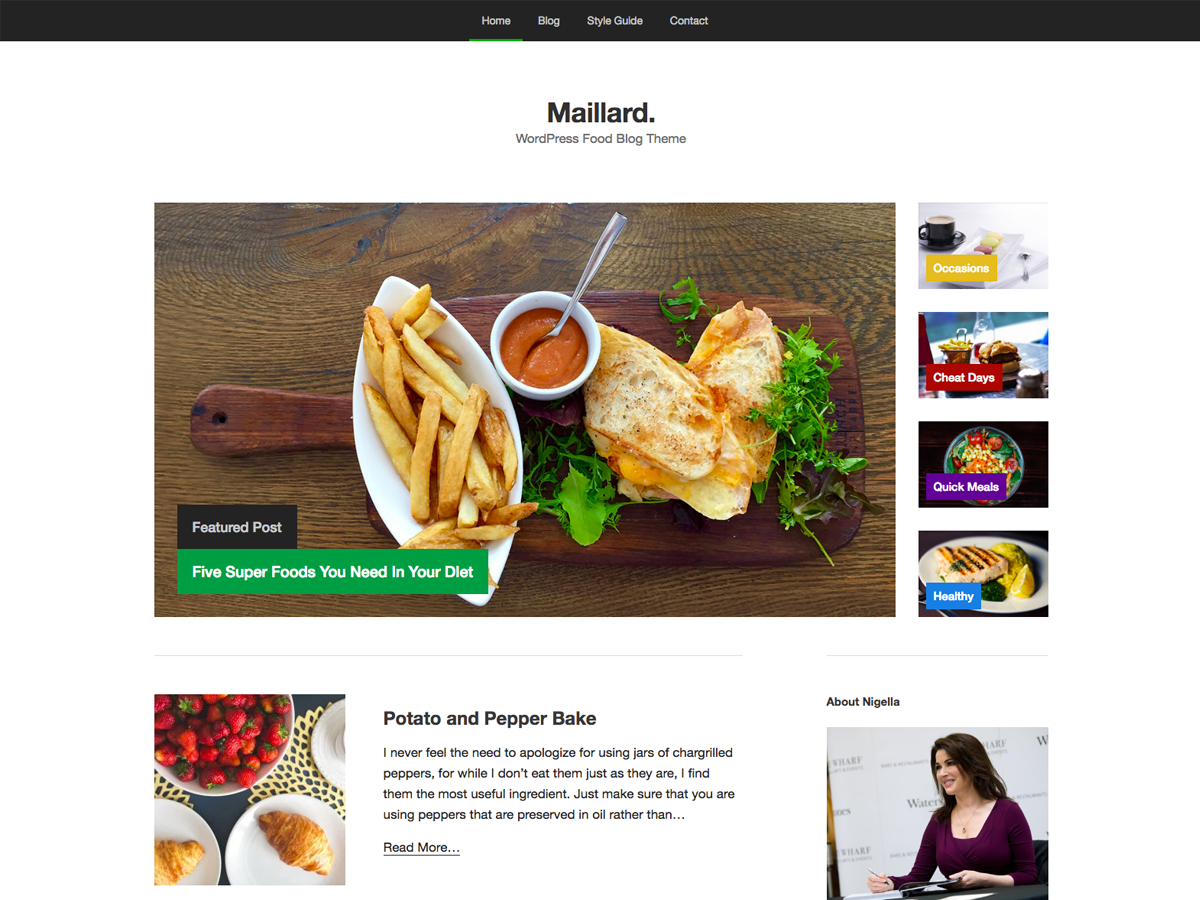
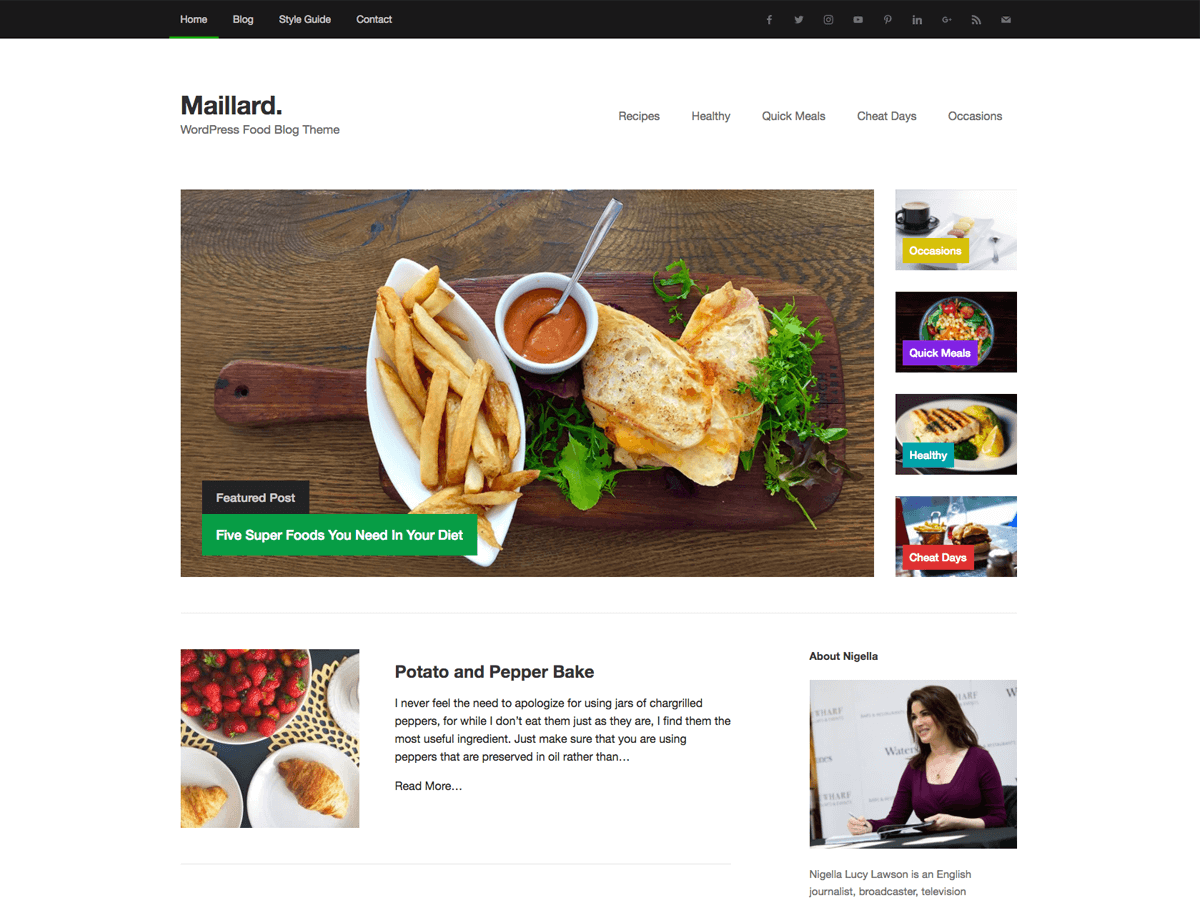
Final fixes

diff --git a/style.css b/style.css
@@ -97,6 +97,16 @@ p {
 	line-height: 1
 }
 
+.page-template-home .site-header .wrap {
+    border-bottom: 0;
+    margin-bottom: 25px;
+}
+
+.page-template-home .site-content .wrap {
+	border-top: 1px solid #e8e8e8;
+	padding-top: 50px;
+}
+
 .homepage-widget-area {
 	margin-bottom: 50px;
 }

diff --git a/functions.php b/functions.php
@@ -1,6 +1,6 @@
 <?php
 /**
- * Zeus functions and definitions
+ * Maillard functions and definitions
  *
  * @package maillard
  */
@@ -24,7 +24,7 @@ if ( ! function_exists( 'maillard_setup' ) ) {
 		/*
          * Make theme available for translation.
          * Translations can be filed in the /languages/ directory.
-         * If you're building a theme based on Core, use a find and replace
+         * If you're building a theme based on Maillard, use a find and replace
          * to change 'maillard' to the name of your theme in all the template files
         */
 		load_theme_textdomain( 'maillard', get_template_directory() . '/languages' );
@@ -220,15 +220,15 @@ require( get_stylesheet_directory() . '/template-parts/widgets/featured-post.php
 function maillard_social_output() {
 
 	$social_websites = array(
-		'facebook' => 'Facebook',
-		'twitter' => 'Twitter',
-		'instagram' => 'Instagram',
-		'youtube' => 'YouTube',
-		'pinterest' => 'Pinterest',
-		'linkedin' => 'LinkedIn',
-		'googleplus' => 'Google+',
-		'rss' => 'RSS',
-		'mail' => 'Contact',
+		'facebook' => __( 'Facebook', 'maillard' ),
+		'twitter' => __( 'Twitter', 'maillard' ),
+		'instagram' => __( 'Instagram', 'maillard' ),
+		'youtube' => __( 'YouTube', 'maillard' ),
+		'pinterest' => __( 'Pinterest', 'maillard' ),
+		'linkedin' => __( 'LinkedIn', 'maillard' ),
+		'googleplus' => __( 'Google+', 'maillard' ),
+		'rss' => __( 'RSS', 'maillard' ),
+		'mail' => __( 'Contact', 'maillard' ),
 	);
 
 	echo '<div class="maillard-social-icons">';

diff --git a/page-templates/home.php b/page-templates/home.php
@@ -9,7 +9,7 @@
 
 remove_action( 'zeus_content', 'zeus_loop', 10 );
 add_action( 'zeus_content', 'maillard_home_loop', 10 );
-add_action( 'zeus_content_sidebar_wrapper', 'maillard_output_homepage_widgets', 5 );
+add_action( 'zeus_site_content_before', 'maillard_output_homepage_widgets', 5 );
 
 /**
  * @TODO
@@ -17,13 +17,14 @@ add_action( 'zeus_content_sidebar_wrapper', 'maillard_output_homepage_widgets', 
 function maillard_output_homepage_widgets() {
 
 	if ( is_active_sidebar( 'featured-post' ) || is_active_sidebar( 'featured-categories' ) ) {
-		echo '<div class="homepage-widget-area clear">';
+		echo '<div class="homepage-widget-area clear"><div class="wrap">';
 			echo '<div class="widget-area-featured-post">';
 				dynamic_sidebar( 'featured-post' );
 			echo '</div><!-- .widget-area-featured-post -->';
 
 			echo '<div class="widget-area-featured-categories">';
 				dynamic_sidebar( 'featured-categories' );
+			echo '</div><!-- .wrap -->';
 			echo '</div><!-- .widget-area-featured-categories -->';
 		echo '</div>';
 	}
